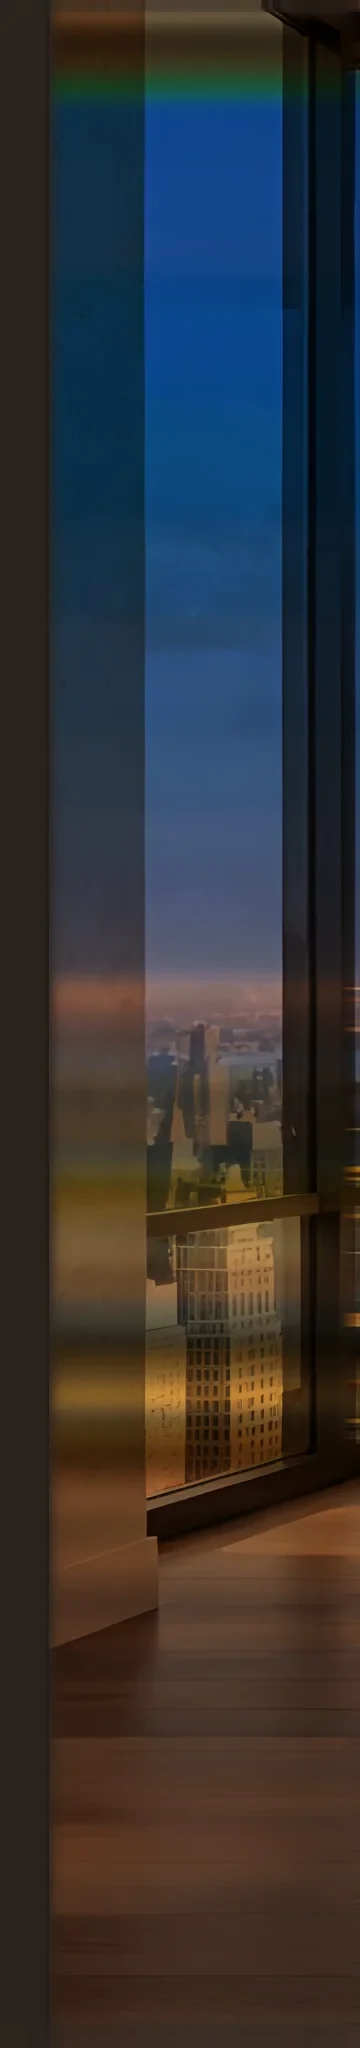
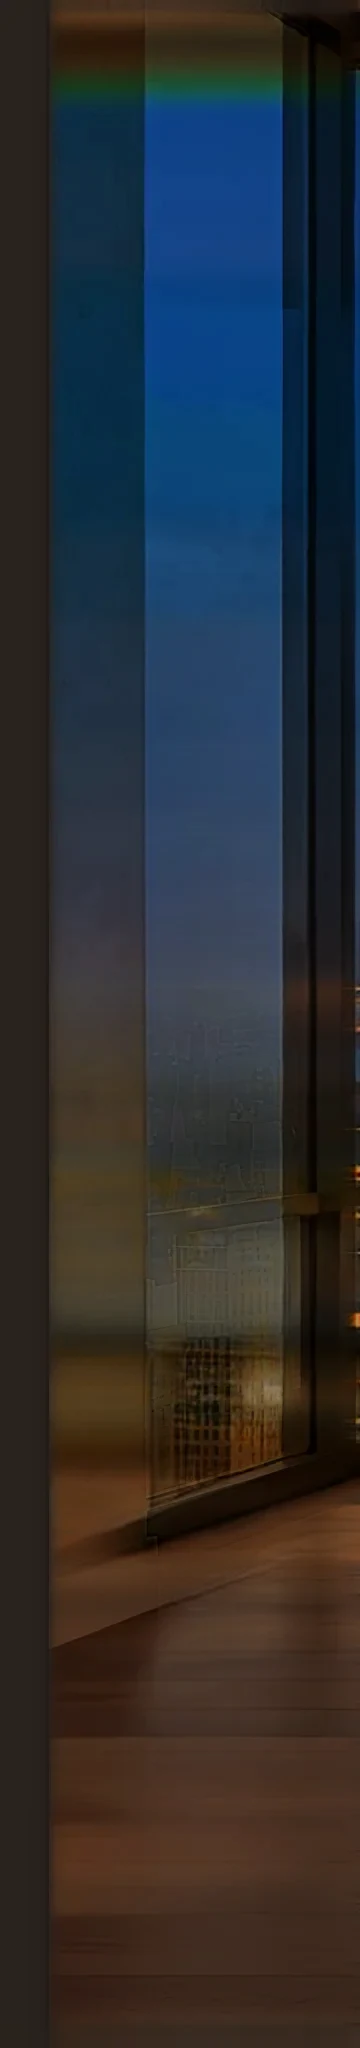
Home: balance the overexposed left side of the room
Clipped glass in the left window extension is redrawn (LaMa, room as context),
then a soft highlight roll-off fades from the extension into the room's first
60 px. DL-56.

Claude-Session: https://claude.ai/code/session_01Q2iX8U4MkKUcYxVfpZrcab

diff --git a/docs/asset-lock/scripts/left-balance.py b/docs/asset-lock/scripts/left-balance.py
@@ -1,0 +1,29 @@
+"""Balance the left side of Home (Femi: "the left side on the screen is too bright and overexposed").
+1. The left window extension (edge-left, shown on wide screens) had clipped, detail-less glass (morning 40% pure
+   white, golden a blown sun bloom). Those areas are re-drawn by LaMa with the room's left window as context.
+2. A soft highlight roll-off + slight exposure cut on the extension, fading out over the room's first 60 master px,
+   so the seam stays continuous. Colour kept (luminance ratio applied to RGB).
+Usage: bal.py orig_dir public_room_dir   (needs out-{mode}.png / mk-{mode}.png from the LaMa pass, 480x1024 = ext|room 0-300)"""
+import cv2, numpy as np, sys
+O, P = sys.argv[1:3]; S = 2
+CURVE = {'morning': (.95, 175, .5), 'golden': (.93, 150, .5), 'night': (.96, 80, .6)}   # exposure, knee, slope above knee
+lw = np.array([.114, .587, .299], np.float32)
+def tone(img, e, knee, k):
+    L = img @ lw + 1e-3
+    out = np.where(L < knee, L * e, knee * e + (L - knee) * e * k)
+    return img * (out / L)[..., None]
+for mode, (e, knee, k) in CURVE.items():
+    ext = cv2.imread(f'{O}/edge-left-{mode}.webp').astype(np.float32)
+    room = cv2.imread(f'{O}/{mode}-3072.webp').astype(np.float32)
+    lm = cv2.resize(cv2.imread(f'out-{mode}.png').astype(np.float32), (960, 2048), interpolation=cv2.INTER_CUBIC)[:, :360]
+    mk = cv2.GaussianBlur(cv2.resize(cv2.imread(f'mk-{mode}.png', 0), (960, 2048))[:, :360].astype(np.float32) / 255, (0, 0), 6)[..., None]
+    hp = ext - cv2.GaussianBlur(ext, (0, 0), 2)                         # keep the glass's own fine grain
+    ext2 = tone(ext * (1 - mk) + (lm + hp * .5) * mk, e, knee, k)
+    n = 60 * S
+    w = (1 - np.linspace(0, 1, n, dtype=np.float32)) ** 2
+    part = room[:, :n]
+    room[:, :n] = part * (1 - w[None, :, None]) + tone(part, e, knee, k) * w[None, :, None]
+    cv2.imwrite(f'{P}/edge-left-{mode}.webp', np.clip(ext2, 0, 255).astype(np.uint8), [cv2.IMWRITE_WEBP_QUALITY, 88])
+    for wd in (3072, 2048, 1536):
+        cv2.imwrite(f'{P}/{mode}-{wd}.webp', cv2.resize(np.clip(room, 0, 255), (wd, wd * 2 // 3), interpolation=cv2.INTER_AREA).astype(np.uint8), [cv2.IMWRITE_WEBP_QUALITY, 88])
+    print(mode, 'ext mean', round(float((ext @ lw).mean()), 1), '->', round(float((ext2 @ lw).mean()), 1), 'clipped', round(float(((ext @ lw) > 245).mean()), 3), '->', round(float(((ext2 @ lw) > 245).mean()), 3))

diff --git a/docs/asset-lock/scripts/lama.py b/docs/asset-lock/scripts/lama.py
@@ -1,0 +1,14 @@
+"""LaMa (big-lama TorchScript) inpainting. Usage: lama.py image.png mask.png out.png  (mask: 255 = fill)"""
+import sys, numpy as np, torch, cv2
+torch.set_num_threads(max(1, torch.get_num_threads()))
+img_p, mask_p, out_p = sys.argv[1:4]
+model = torch.jit.load(__file__.rsplit('/', 1)[0] + '/big-lama.pt', map_location='cpu').eval()
+im = cv2.cvtColor(cv2.imread(img_p), cv2.COLOR_BGR2RGB).astype(np.float32) / 255
+m = (cv2.imread(mask_p, 0) > 127).astype(np.float32)
+H, W = m.shape
+ph, pw = (8 - H % 8) % 8, (8 - W % 8) % 8
+im = np.pad(im, ((0, ph), (0, pw), (0, 0)), mode='reflect'); m = np.pad(m, ((0, ph), (0, pw)), mode='reflect')
+with torch.inference_mode():
+    out = model(torch.from_numpy(im).permute(2, 0, 1)[None], torch.from_numpy(m)[None, None])
+out = out[0].permute(1, 2, 0).numpy()[:H, :W]
+cv2.imwrite(out_p, cv2.cvtColor(np.clip(out * 255, 0, 255).astype(np.uint8), cv2.COLOR_RGB2BGR))

diff --git a/docs/decision-log.md b/docs/decision-log.md
@@ -60,3 +60,4 @@ Newest last. Each entry records the decision, why it was made and what would rev
 | DL-53 | 2026-10-15 | 5 | **Résumé available on request, behind a passcode.** `/resume` carries no résumé content until a server action accepts the passcode. The repo stores only a salted scrypt hash, never the passcode, and `RESUME_PASSCODE` in the hosting environment can replace it. Wrong attempts are slowed. Unlock lasts for the browser tab. The page is `noindex`, with a "Request access" email. The public-PDF shortcut on Home is removed, so the Home strip links to `/resume`. A résumé PDF must never go in `public/`. | Femi: "put the resume behind a pass, it should be available upon request" | — |
 | DL-54 | 2026-10-15 | 5 | **Request access opens a form** (full name, email, phone; all required; honeypot for bots). It's delivered to femi@femifalade.com by **FormSubmit** (formsubmit.co: no account or key; the first submission triggers a one-time activation email). The subject is "Resume request from [name]", with reply-to set to the requester. A mailto fallback appears on failure. Separately, **"Résumé" becomes "Resume" site-wide.** | Femi: the request should be a form with name, email and phone sent to his email; remove the accents | Femi prefers another email service (e.g. Resend with an API key) |
 | DL-55 | 2026-10-15 | 6 | The light selector shows only the New York clock as a time. The options are **Morning, Afternoon, Night**, with no hour ranges, and "Golden hour" is renamed **Afternoon**. The internal light id stays `golden`, so assets and saved choices are unchanged. | Femi: "Only keep the current time in NYC… call golden hour 'afternoon'" | — |
+| DL-56 | 2026-10-20 | 6 | **Left side of Home balanced.** The left window extension (shown on wide screens) had clipped glass: 40% pure white in the morning and a blown sun bloom in the afternoon. Those areas are redrawn by LaMa with the room's left window as context. A soft highlight roll-off then covers the extension and fades out over the room's first 60 master px, so there's no seam. Nothing else in the room changes. Script: left-balance.py. | Femi: "the left side on the screen is too bright and overexposed, needs to be a bit more balanced" | — |
